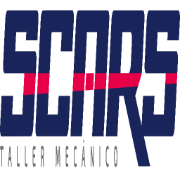
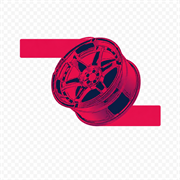
cambios solicitados

diff --git a/ScarsWeb/src/components/Hero/Hero.jsx b/ScarsWeb/src/components/Hero/Hero.jsx
@@ -5,8 +5,11 @@ import heroPhoto from "../../assets/señorscars.png";
 import toyotaLogo from "../../assets/toyota.png";
 import nissanLogo from "../../assets/nIssan.png";
 import chevroletLogo from "../../assets/chevrolet.png";
+import hondaLogo from "../../assets/honda.png";
 import hyundaiLogo from "../../assets/hyundai.png";
+import jeepLogo from "../../assets/Jeep.png";
 import kiaLogo from "../../assets/kia.png";
+import suzukiLogo from "../../assets/suzuki.png";
 
 const HIGHLIGHTS = [
   {
@@ -55,15 +58,15 @@ const HIGHLIGHTS = [
     ),
   },
   {
-    title: "Alineaci\u00f3n y Balanceo",
+    title: "Revisi\u00f3n de Frenos",
     tone: "navy",
     icon: (
       <svg viewBox="0 0 24 24" aria-hidden="true">
         <circle cx="12" cy="12" r="8.5" />
-        <circle cx="12" cy="12" r="3.5" />
-        <path d="M12 3.5v17" />
-        <path d="M8.1 4.5 15.9 19.5" />
-        <path d="M15.9 4.5 8.1 19.5" />
+        <circle cx="12" cy="12" r="2.5" />
+        <path d="M12 3.5a8.5 8.5 0 0 1 8.5 8.5" />
+        <path d="M18.5 15.5 21 18" />
+        <path d="M5.5 15.5 3 18" />
       </svg>
     ),
   },
@@ -85,8 +88,11 @@ const BRANDS = [
   { name: "Toyota", logo: toyotaLogo },
   { name: "Nissan", logo: nissanLogo },
   { name: "Chevrolet", logo: chevroletLogo },
+  { name: "Honda", logo: hondaLogo },
   { name: "Hyundai", logo: hyundaiLogo },
+  { name: "Jeep", logo: jeepLogo },
   { name: "Kia", logo: kiaLogo },
+  { name: "Suzuki", logo: suzukiLogo },
 ];
 
 export default function Hero() {

diff --git a/ScarsWeb/index.html b/ScarsWeb/index.html
@@ -50,7 +50,7 @@
       property="og:description"
       content="SCARS es un taller mecanico en Piura especializado en diagnostico, mantenimiento preventivo, reparacion general, alineacion, balanceo y cambio de aceite."
     />
-    <meta property="og:image" content="https://scars.com.pe/ScarsLogo.png" />
+    <meta property="og:image" content="https://scars.com.pe/ScarsLogo.png?v=2026-06-16" />
     <meta property="og:image:alt" content="Logo oficial de SCARS Taller Mecanico" />
     <meta property="og:site_name" content="SCARS Taller Mecanico E.I.R.L." />
     <meta property="og:locale" content="es_PE" />
@@ -65,14 +65,16 @@
       name="twitter:description"
       content="SCARS es un taller mecanico en Piura especializado en diagnostico, mantenimiento preventivo, reparacion general, alineacion, balanceo y cambio de aceite."
     />
-    <meta name="twitter:image" content="https://scars.com.pe/ScarsLogo.png" />
+    <meta name="twitter:image" content="https://scars.com.pe/ScarsLogo.png?v=2026-06-16" />
     <meta name="twitter:image:alt" content="Logo oficial de SCARS Taller Mecanico" />
 
     <link rel="canonical" href="https://scars.com.pe/" />
 
-    <link rel="icon" type="image/png" href="/ScarsLogo.png" />
-    <link rel="apple-touch-icon" href="/ScarsLogo.png" />
-    <link rel="manifest" href="/manifest.json" />
+    <link rel="icon" type="image/png" sizes="32x32" href="/favicon-32x32.png?v=2026-06-16" />
+    <link rel="icon" type="image/png" sizes="192x192" href="/android-chrome-192x192.png?v=2026-06-16" />
+    <link rel="shortcut icon" href="/favicon-32x32.png?v=2026-06-16" />
+    <link rel="apple-touch-icon" sizes="180x180" href="/apple-touch-icon.png?v=2026-06-16" />
+    <link rel="manifest" href="/manifest.json?v=2026-06-16" />
 
     <link rel="preconnect" href="https://fonts.googleapis.com" />
     <link rel="preconnect" href="https://fonts.gstatic.com" crossorigin />

diff --git a/ScarsWeb/src/components/Servicios/Servicios.jsx b/ScarsWeb/src/components/Servicios/Servicios.jsx
@@ -13,7 +13,7 @@ const SERVICES = [
         <path d="M22.7 19L13.6 9.9C14.5 7.6 14 4.9 12.1 3C10.1 1 7.1 1 5.1 3L9 6.9L7.6 8.3L3.7 4.4C1.7 6.4 1.7 9.4 3.7 11.4C5.6 13.3 8.3 13.8 10.6 12.9L19.7 22C20.1 22.4 20.7 22.4 21.1 22L22.7 20.4C23.1 20 23.1 19.4 22.7 19Z" stroke="currentColor" strokeWidth="2" strokeLinecap="round" strokeLinejoin="round"/>
       </svg>
     ),
-    image: s1
+    image: "/mecanicageneral.jpeg"
   },
   {
     id: 2,
@@ -25,7 +25,7 @@ const SERVICES = [
         <polyline points="12,6 12,12 16,14" stroke="currentColor" strokeWidth="2"/>
       </svg>
     ),
-    image: s2
+    image: "/mantenimientopreven.png"
   },
   {
     id: 3,
@@ -36,7 +36,7 @@ const SERVICES = [
         <path d="M19.43 12.98C19.47 12.66 19.5 12.34 19.5 12C19.5 11.66 19.47 11.34 19.43 11.02L21.54 9.37C21.73 9.22 21.78 8.95 21.66 8.73L19.66 5.27C19.54 5.05 19.27 4.96 19.05 5.05L16.56 6.05C16.04 5.66 15.5 5.32 14.87 5.07L14.5 2.42C14.46 2.18 14.25 2 14 2H10C9.75 2 9.54 2.18 9.5 2.42L9.13 5.07C8.5 5.32 7.96 5.66 7.44 6.05L4.95 5.05C4.73 4.96 4.46 5.05 4.34 5.27L2.34 8.73C2.22 8.95 2.27 9.22 2.46 9.37L4.57 11.02C4.53 11.34 4.5 11.67 4.5 12C4.5 12.33 4.53 12.66 4.57 12.98L2.46 14.63C2.27 14.78 2.22 15.05 2.34 15.27L4.34 18.73C4.46 18.95 4.73 19.03 4.95 18.95L7.44 17.94C7.96 18.34 8.5 18.68 9.13 18.93L9.5 21.58C9.54 21.82 9.75 22 10 22H14C14.25 22 14.46 21.82 14.5 21.58L14.87 18.93C15.5 18.68 16.04 18.34 16.56 17.94L19.05 18.95C19.27 19.03 19.54 18.95 19.66 18.73L21.66 15.27C21.78 15.05 21.73 14.78 21.54 14.63L19.43 12.98ZM12 15.5C10.62 15.5 9.5 14.38 9.5 13C9.5 11.62 10.62 10.5 12 10.5C13.38 10.5 14.5 11.62 14.5 13C14.5 14.38 13.38 15.5 12 15.5Z" stroke="currentColor" strokeWidth="2"/>
       </svg>
     ),
-    image: s3
+    image: "/afinamientoelec.png"
   },
   {
     id: 4,
@@ -49,7 +49,7 @@ const SERVICES = [
         <line x1="12" y1="22.08" x2="12" y2="12" stroke="currentColor" strokeWidth="2"/>
       </svg>
     ),
-    image: s1
+    image: "/detalladoauto.png"
   },
   {
     id: 5,
@@ -65,7 +65,7 @@ const SERVICES = [
         <path d="M8 16h.01" stroke="currentColor" strokeWidth="2"/>
       </svg>
     ),
-    image: s2
+    image: "/suministrorepuestos.png"
   },
   {
     id: 6,
@@ -76,7 +76,7 @@ const SERVICES = [
         <path d="M12 2l3.09 6.26L22 9.27l-5 4.87 1.18 6.88L12 17.77l-6.18 3.25L7 14.14 2 9.27l6.91-1.01L12 2z" stroke="currentColor" strokeWidth="2"/>
       </svg>
     ),
-    image: s3
+    image: "/accesorios.png"
   }
 ];
 

diff --git a/ScarsWeb/src/components/header/header.css b/ScarsWeb/src/components/header/header.css
@@ -18,8 +18,8 @@
   cursor:pointer;
 }
 .brand-mark{
-  width:48px;
-  height:48px;
+  width:72px;
+  height:82px;
   object-fit:contain;
   flex:0 0 auto;
 }
@@ -134,8 +134,8 @@
   }
 
   .brand-mark{
-    width:40px;
-    height:40px;
+    width:44px;
+    height:44px;
   }
 
   .brand-wordmark{

diff --git a/ScarsWeb/src/components/header/header.jsx b/ScarsWeb/src/components/header/header.jsx
@@ -140,8 +140,8 @@ export default function Header() {
               src={scarsMark}
               alt="Emblema SCARS"
               className="brand-mark"
-              width="54"
-              height="54"
+              width="84"
+              height="64"
             />
             <img
               src={logo}

diff --git a/ScarsWeb/src/hooks/useSEO.js b/ScarsWeb/src/hooks/useSEO.js
@@ -2,7 +2,8 @@ import { useEffect } from "react";
 import { useLocation } from "react-router-dom";
 
 const SITE_URL = import.meta.env.VITE_SITE_URL || "https://scars.com.pe";
-const DEFAULT_IMAGE = `${SITE_URL}/ScarsLogo.png`;
+const IMAGE_VERSION = "2026-06-16";
+const DEFAULT_IMAGE = `${SITE_URL}/ScarsLogo.png?v=${IMAGE_VERSION}`;
 const BUSINESS_NAME = "SCARS Taller Mecanico E.I.R.L.";
 const BUSINESS_PHONE = "[phone redacted]";
 const BUSINESS_EMAIL = "[email redacted]";